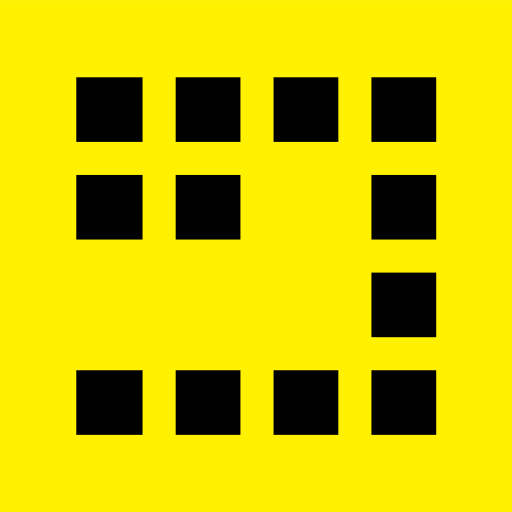
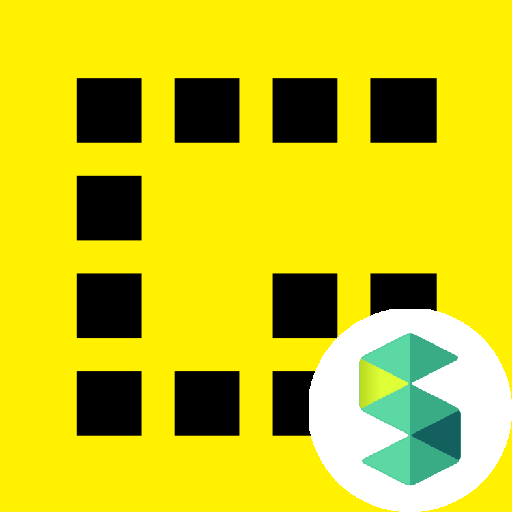
.

diff --git a/src/main.rs b/src/main.rs
@@ -8,40 +8,40 @@ fn main() {
 
     let scrapbox_img = image::open("scrapbox.png").unwrap();
     let resized_scrapbox_img = scrapbox_img.resize(
-        ((geek_img_width as f32) * 0.25) as u32,
-        ((geek_img_width as f32) * 0.25) as u32,
+        ((geek_img_width as f32) * 0.4) as u32,
+        ((geek_img_width as f32) * 0.4) as u32,
         image::FilterType::Nearest
     );
-    let (resized_scrapbox_img_width, resized_scrapbox_img_height) = geek_img.dimensions();
-
-    // println!("{:?}", resized_scrapbox_img.dimensions());
+    let (resized_scrapbox_img_width, resized_scrapbox_img_height) = resized_scrapbox_img.dimensions();
 
 
     let mut img_buf: image::RgbaImage = ImageBuffer::new(geek_img_width, geek_img_height);
     let mut img_buf2: image::RgbaImage = ImageBuffer::new(geek_img_width, geek_img_height);
 
 
-    // println!("{:?}", img.color());
     for (x, y, pixel) in img_buf.enumerate_pixels_mut() {
-        let relative_x = ((geek_img_width as f32) * 0.75) as u32;
-        let relative_y = ((geek_img_height as f32) * 0.75) as u32;
+        let relative_x = ((geek_img_width as f32) * 0.6) as u32;
+        let relative_y = ((geek_img_height as f32) * 0.6) as u32;
 
         let mut real_x = x;
         let mut real_y = y;
         let mut target = &geek_img;
 
-        if x + resized_scrapbox_img_width > geek_img_width {
-            real_x = geek_img_width - x;
-            target = &resized_scrapbox_img;
+        if x + resized_scrapbox_img_width > geek_img_width && y + resized_scrapbox_img_height > geek_img_height {
+            let maybe_real_x = x + resized_scrapbox_img_width - geek_img_width;
+            let maybe_real_y = y + resized_scrapbox_img_height - geek_img_height;
+
+            let maybe_real_pixel = resized_scrapbox_img.get_pixel(maybe_real_x, maybe_real_y);
+            let alpha_value = maybe_real_pixel.channels()[3];
+
+            if (alpha_value != 0) {
+                real_x = maybe_real_x;
+                real_y = maybe_real_y;
+                target = &resized_scrapbox_img;
+            }
         }
 
-        if y + resized_scrapbox_img_height > geek_img_height {
-            real_y = geek_img_height - y;
-            target = &resized_scrapbox_img;
-        }
-
-        println!("real_x={}, real_y={}", real_x, real_y);
-        img_buf2.put_pixel(x, y, target.get_pixel(real_x, real_y));
+        img_buf2.put_pixel(x, y, target.get_pixel(real_x, real_y).to_rgba());
     }
 
     img_buf2.save("icon.png");
